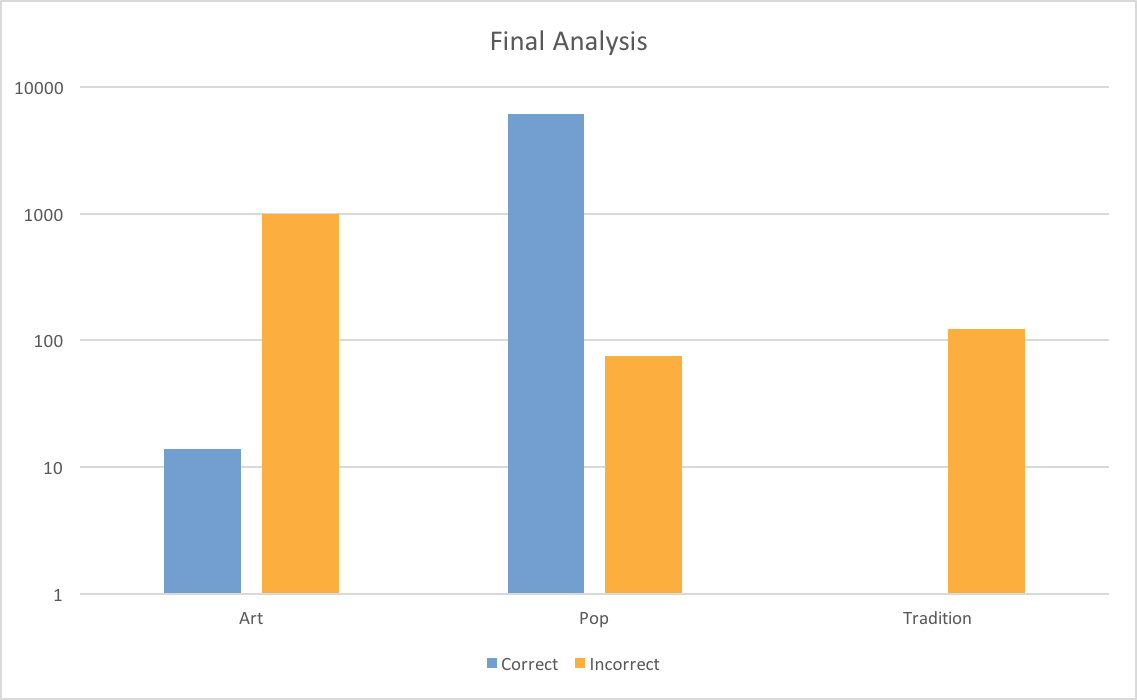
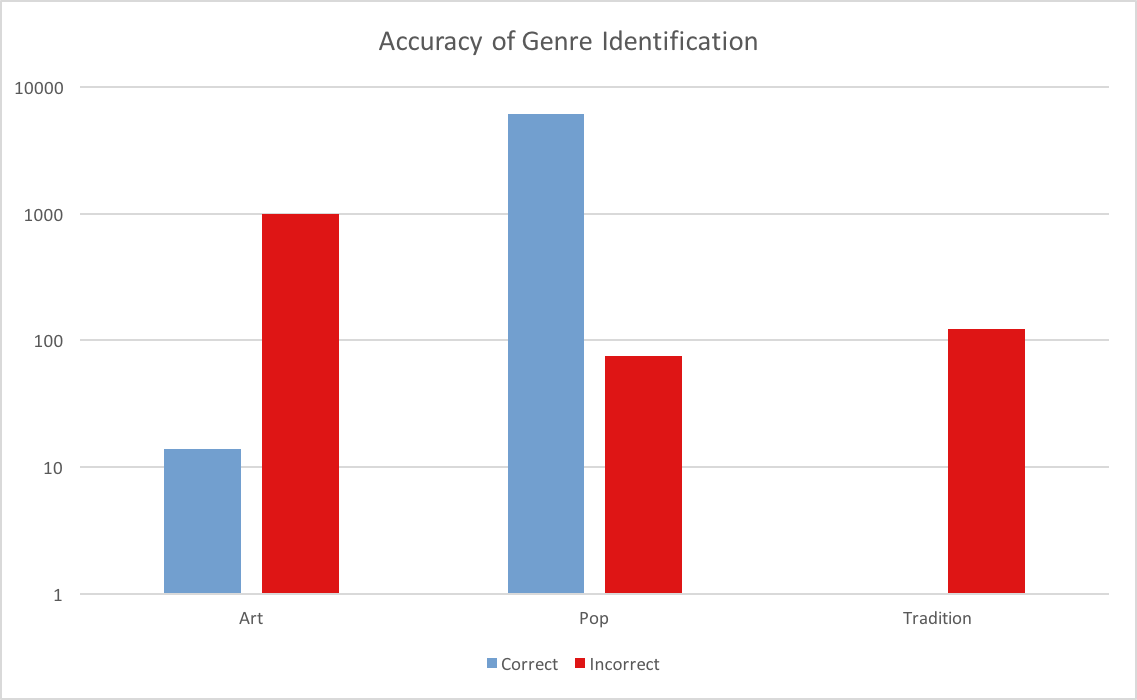
Found a nice red to use

diff --git a/poster-design/paper/index.html b/poster-design/paper/index.html
@@ -104,6 +104,10 @@
 		border-color:#ad7fa8;
 		color:#eeeeec;
 	}
+	.wrong{ /* Putting this in here just so I have the red I used in the graph documented */
+		background-color:#DE1515;
+		border-color:#DE1515;
+	}
 	.code, a.code:link, a.code:visited, a.code:active{
 		background-color:#888a85;
 		color:#eeeeec;
@@ -187,7 +191,7 @@
 	<div>
 		<h2 class="genreID">conclusion</h2>
 		<p style="margin-bottom:10px">Identifying which of the <span title="Art music, popular music, or traditional music." class="mir">three categories</span> a song falls into is a difficult task at times. Christmas music is a great example of how difficult this can be: <a class="citation" title="Pentatonix - Carol of the Bells (YouTube)">Pentatonix' cover of <em>Carol of the Bells</em></a> is a three-year-old version of a song that was penned in 1914, which was itself based on an even older Ukranian folk song. Is this popular or traditional music?</p>
-		<img src="../data/Chart1-mid.png" style="width:15in">
+		<img src="../data/Chart1.png" style="width:15in">
 		<p style="margin-top:10px">There are two potential sources of error: <span class="neuralnet">overfitting</span> to the definition of 'pop' was one concern, as the library featured significantly more samples in that category than either of the others. Another concern is the nature of music - popular music is based upon what came before it, and much research has gone into the different ways in which aspects of traditional and art music can be identified in popular music.</p>
 	</div>
 </section>
